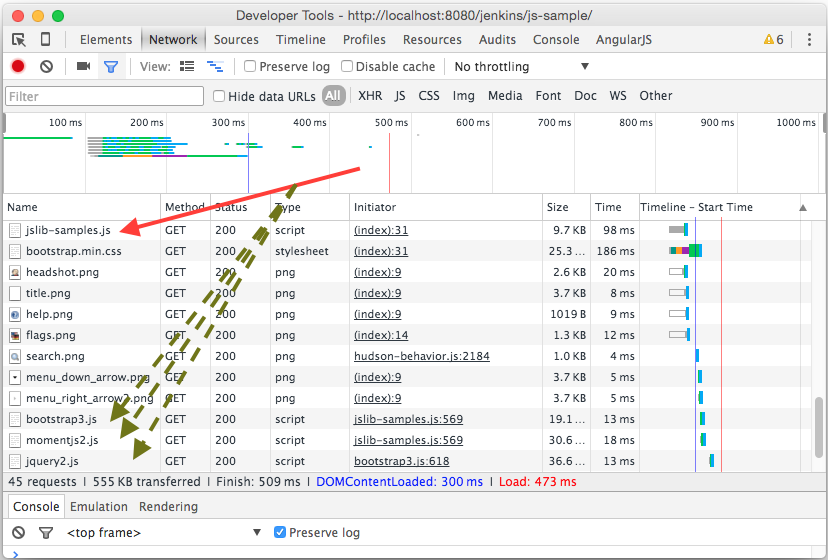
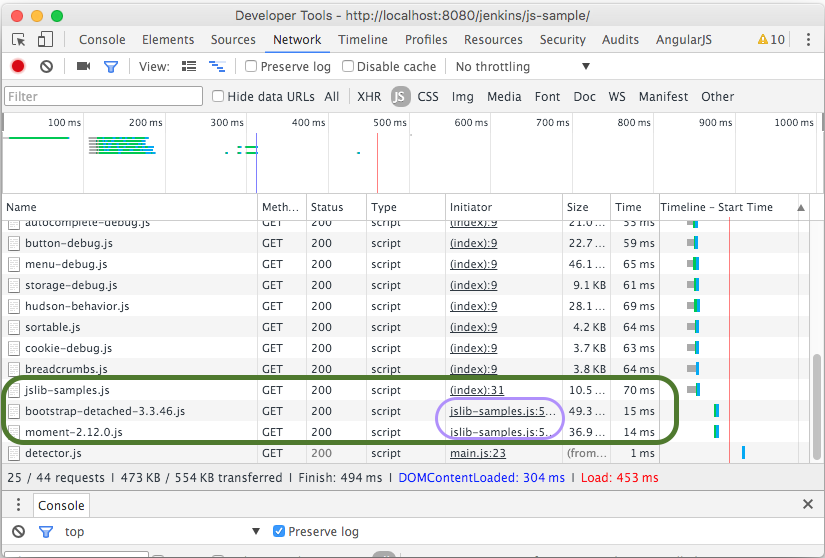
Updated step-04 readme

diff --git a/step-04-externalize-libs/gulpfile.js b/step-04-externalize-libs/gulpfile.js
@@ -4,8 +4,7 @@ var builder = require('@jenkins-cd/js-builder');
 // Bundle the modules.
 // See https://github.com/jenkinsci/js-builder
 //
-builder.bundle('src/main/js/jslib-samples.js')
-       .inDir('src/main/webapp/jsbundles');
+builder.bundle('src/main/js/jslib-samples.js');
 
 //
 // Bundle the bootstrap CSS (and associated files).

diff --git a/step-04-externalize-libs/README.md b/step-04-externalize-libs/README.md
@@ -1,8 +1,11 @@
 # Step 04 - Externalize Dependency Libraries (slim down)
 In this plugin (`step-04-externalize-libs`), we build on top of <a href="../../../tree/master/step-03-more-npm-packs">step-03-more-npm-packs</a>,
-changing it to load HPI bundled versions of [bootstrap-detached]
-and Moment.js. This means that `step-04-externalize-libs`s `.js` [bundle] will no longer include these dependencies
-and it's size will reduce to less than 30Kb (as opposed to 300Kb).
+changing it to "externalize" it's bulky dependencies i.e. [bootstrap-detached] and Moment.js. This means that `step-04-externalize-libs`s `.js`
+[bundle] will no longer include these dependencies and it's size will reduce to less than 30Kb (as opposed to 300Kb).
+
+This is important if you have multiple bundles loaded in Jenkins at once (e.g. from different plugins). You don't want each
+bundle to have their own copies of [bootstrap-detached], Moment.js etc, making them heavier to load etc. Instead, you want
+those common dependencies to be loaded separately and only once i.e. shared between all "app" bundles.
 
 <p>
 <ol>
